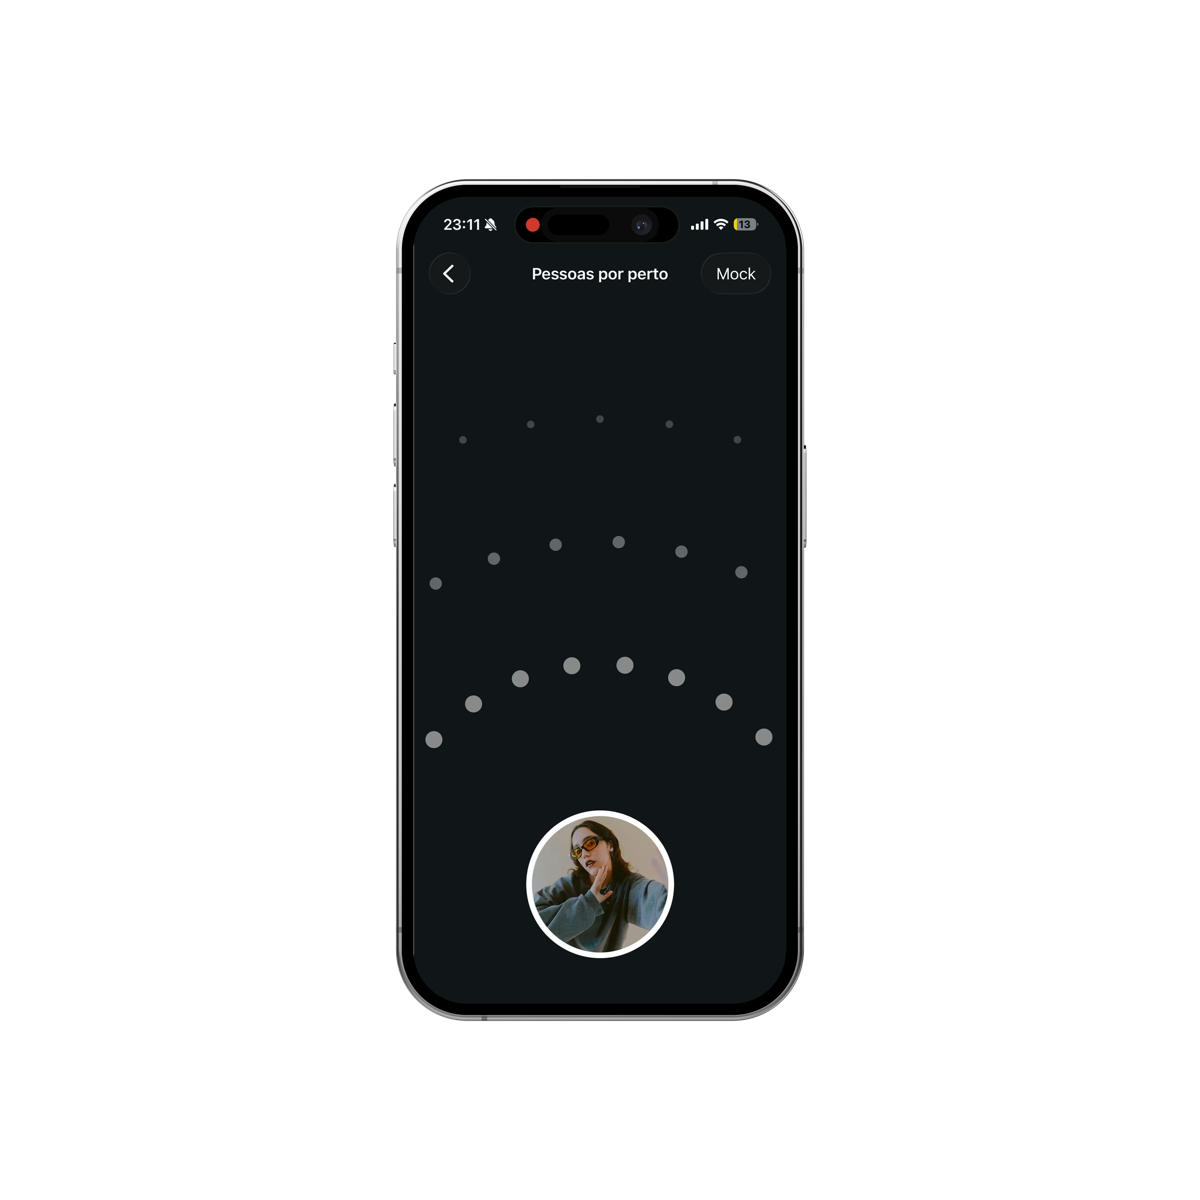
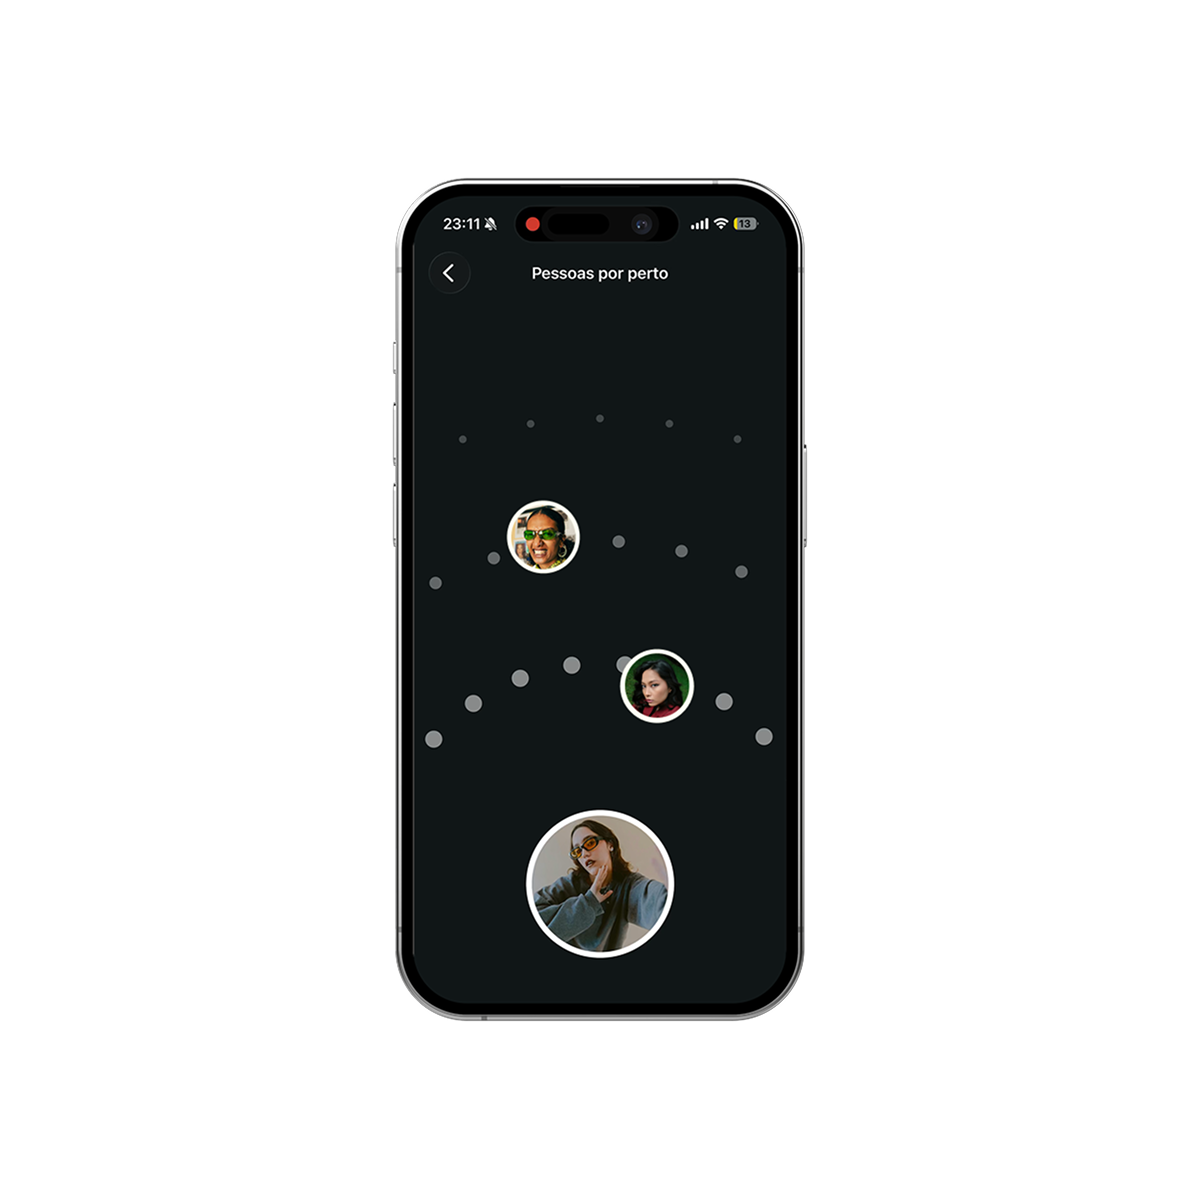
fix: new images and color in back zelu

diff --git a/Assets/css/styles.css b/Assets/css/styles.css
@@ -191,8 +191,8 @@ img {
 
 .zb-back {
     transform: rotateY(180deg);
-    background: var(--zelu-red);
-    color: var(--zelu-cream);
+    background: var(--zelu-cream);
+    color: var(--zelu-bg);
     font-family: 'Bolota', 'Sora', sans-serif;
     font-size: 52px;
     line-height: 1;
